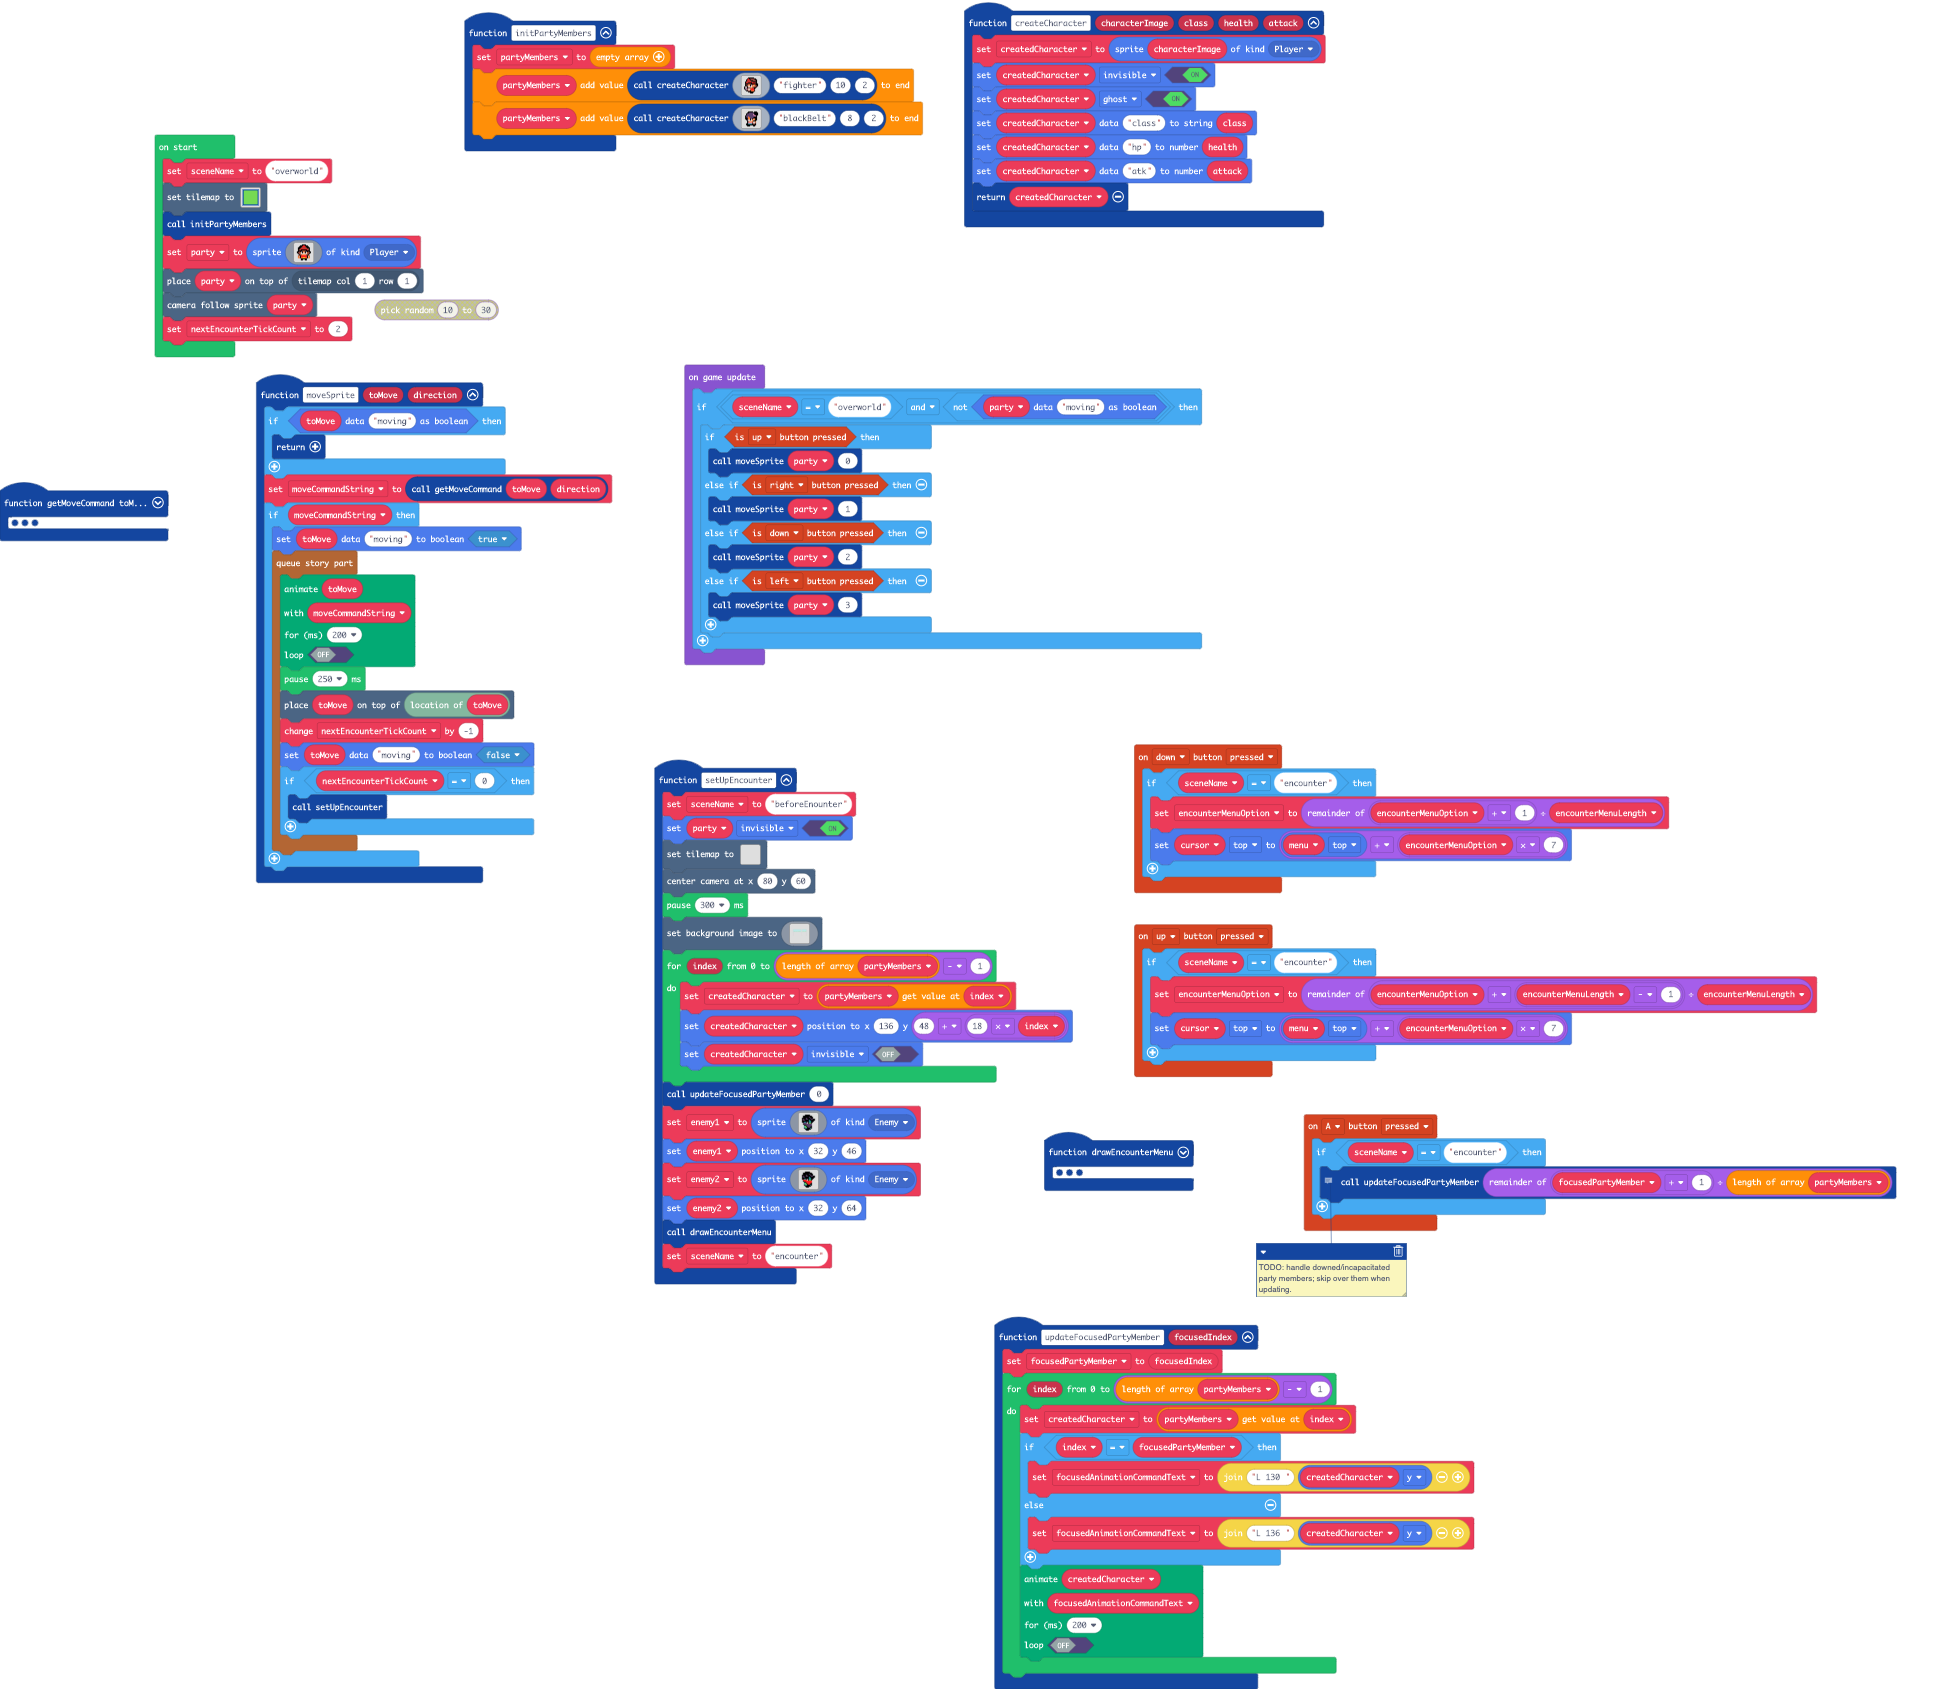
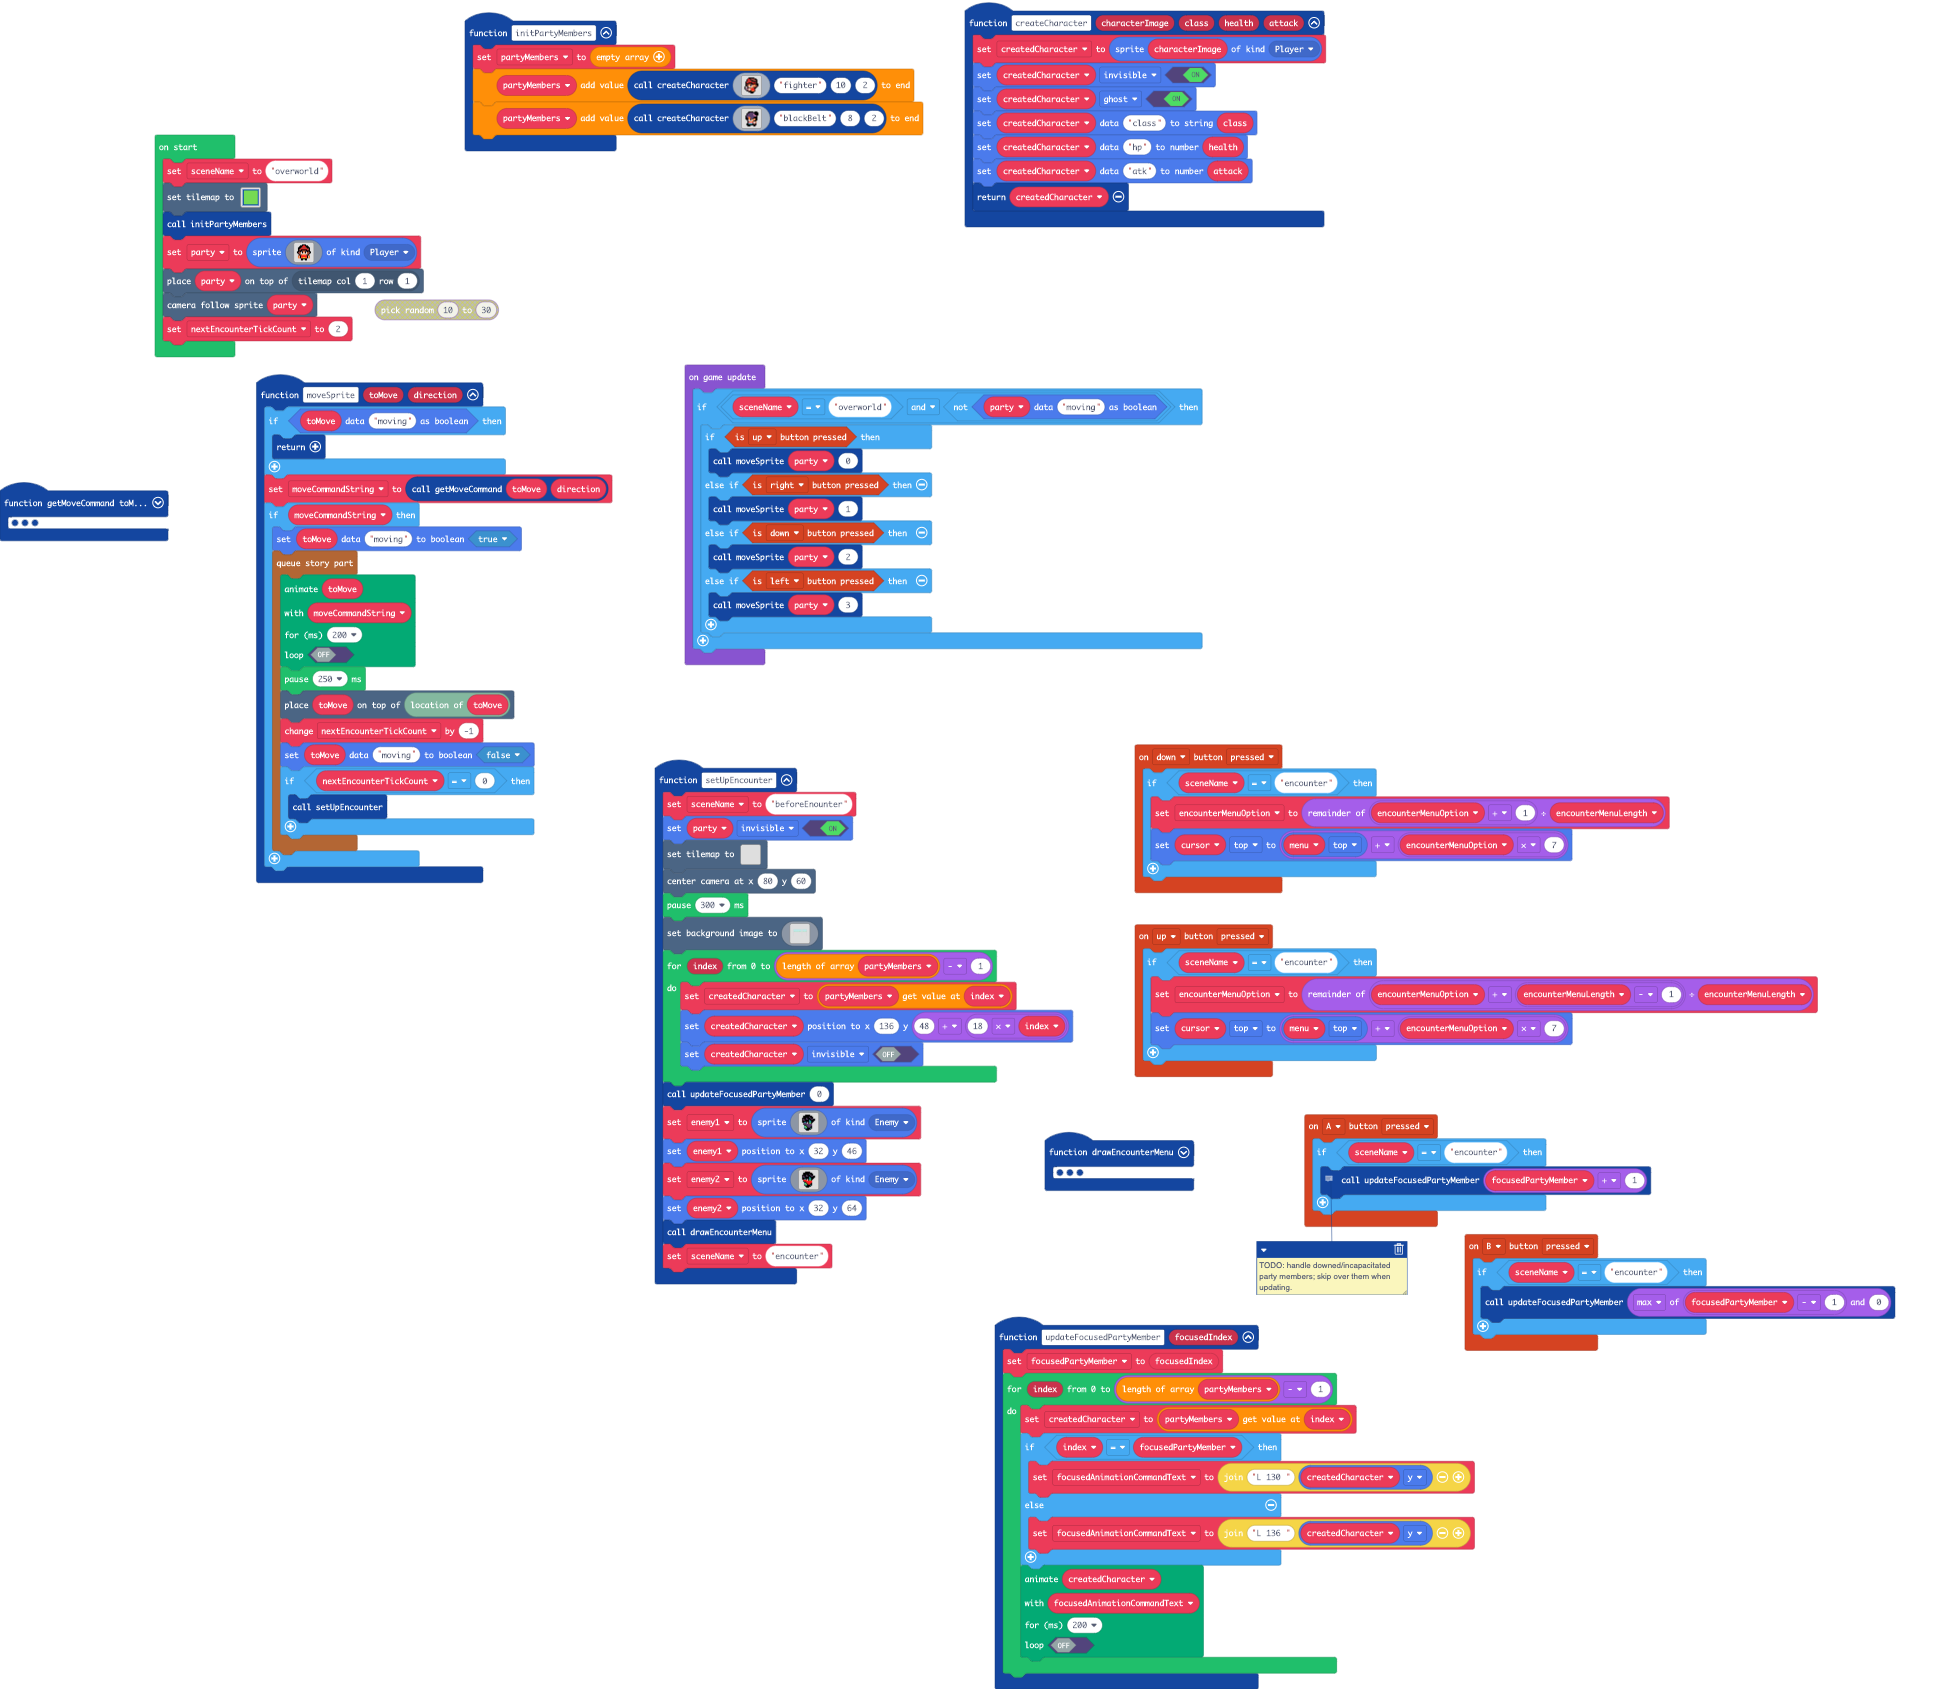
Minor changes

diff --git a/main.ts b/main.ts
@@ -205,10 +205,15 @@ controller.up.onEvent(ControllerButtonEvent.Pressed, function () {
         cursor.top = menu.top + encounterMenuOption * 7
     }
 })
+controller.B.onEvent(ControllerButtonEvent.Pressed, function () {
+    if (sceneName == "encounter") {
+        updateFocusedPartyMember(Math.max(focusedPartyMember - 1, 0))
+    }
+})
 controller.A.onEvent(ControllerButtonEvent.Pressed, function () {
     if (sceneName == "encounter") {
         // TODO: handle downed/incapacitated party members; skip over them when updating.
-        updateFocusedPartyMember((focusedPartyMember + 1) % partyMembers.length)
+        updateFocusedPartyMember(focusedPartyMember + 1)
     }
 })
 function getMoveCommand (toMove: Sprite, direction: number) {
